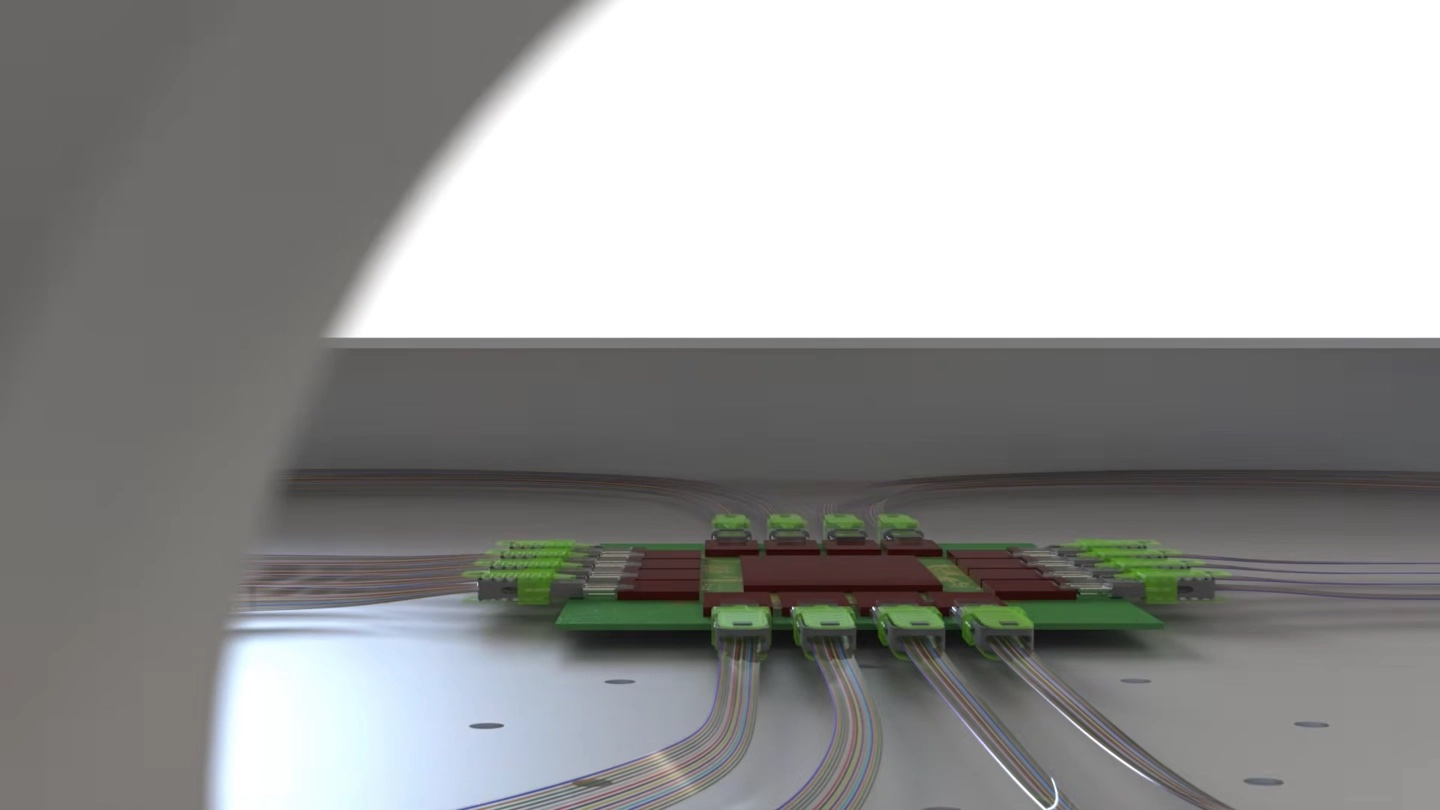
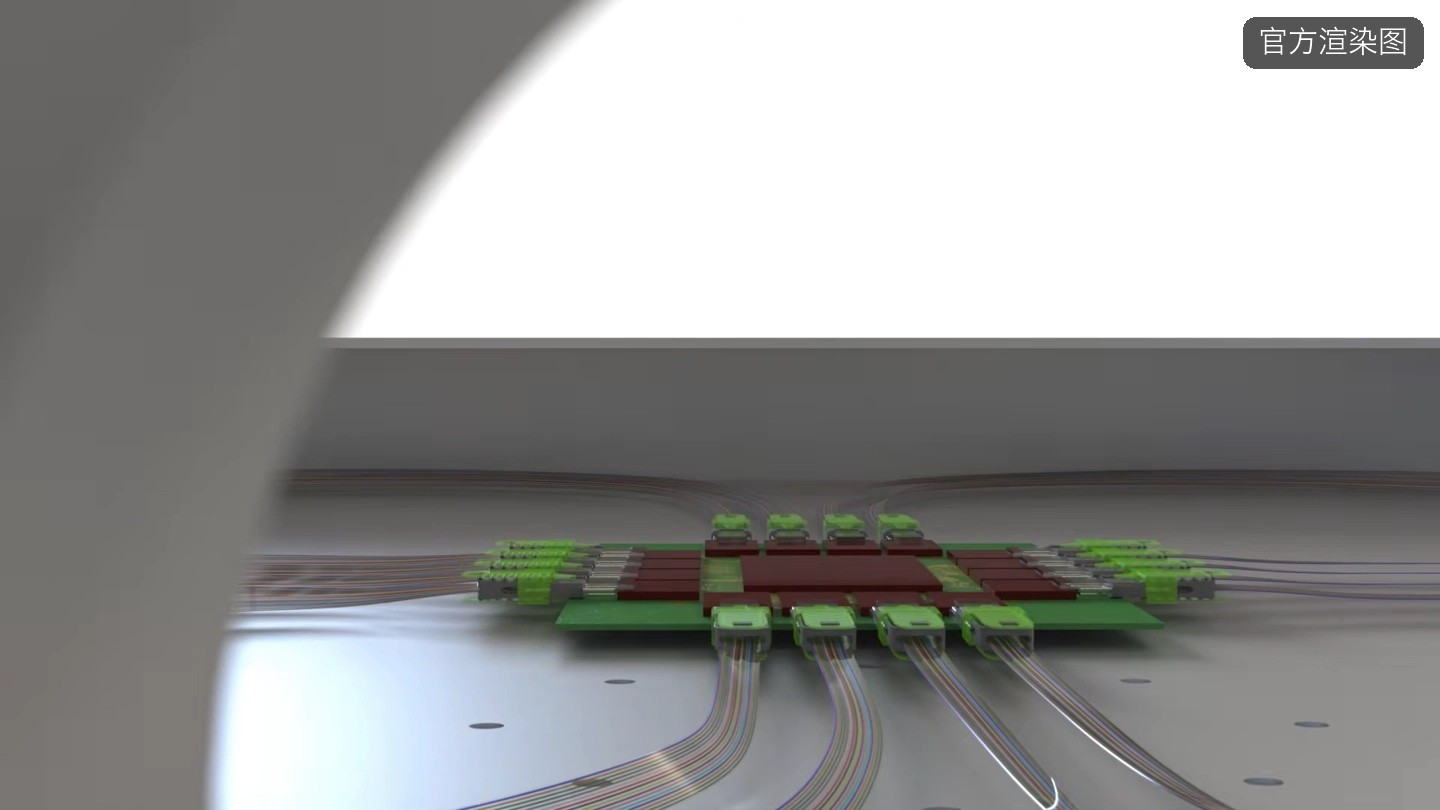
配图口径放宽（宫主 9-28）：允许官方渲染图/AI图/带水印图，须打右上角角标；5 张非实拍图打标（NODE-003/008/010），新增 tag_image.py 与登记册第五节角标登记

Changed region(s): [[0.8438, 0.0, 1.0, 0.0926]]

diff --git a/02 势宫/0201 产业研究所/配图登记册.md b/02 势宫/0201 产业研究所/配图登记册.md
@@ -94,23 +94,53 @@
 | NODE-007 InP | 3 | 晶圆 / 管芯 / 晶圆厂洁净室 | ✅ 齐备 |
 | NODE-008 DSP | 3 | 芯片封装 / 开发板 / 应用套件 | ✅ 齐备 |
 | NODE-009 玻璃基板（电链） | 3 | 产品+环境 / 结构 / 产线检验 | ✅ 齐备 |
-| NODE-010 玻璃基光互连（光链） | 3 | 产品（渲染）/ 工位（渲染）/ 被替代方实物 | ⚠ 见下 |
+| NODE-010 玻璃基光互连（光链） | 3 | 产品（官方渲染图·已打角标）/ 工位（官方渲染图·已打角标）/ 被替代方实物 | ✅ 齐备 |
 
 **合计 30 张**，全部已入 Node 正文《实物速览（配图）》节。
 
 ### 4.2 待补 / 存疑清单
 
-| Node | 缺口 | 说明 |
+> **口径变更（2026-09-28 宫主）**：真实实物照拿不到时，**允许**用官方渲染图 / AI 生成图 / 带水印的转引图 / 示意图，只须在**图片右上角打角标**并写明类型。故下列各项**不再是"缺口"，降为"有则更好"**，不阻塞 Node。
+
+| Node | 待补项 | 说明 |
 |---|---|---|
-| NODE-010 玻璃基光互连 | Glass Bridge **实物照片** | 图 1/2 均为康宁官方**渲染图**（corning.com 全站 403、官网手册 PDF 无法获取，全球公开渠道暂无实物照）。图注已明示"非实物"。待 2027Q4 验证产线小规模量产后补齐 |
-| NODE-010 玻璃基光互连 | IOX 波导**结构剖面图** | 未找到独立结构剖面图（百度百科两张配图经识别为 AI 生成视频封面，已弃用）。当前以图 1 渲染图的波导贴装示意覆盖 |
+| NODE-010 玻璃基光互连 | Glass Bridge **实物照片** | 图 1/2 为康宁官方**渲染图**（corning.com 全站 403、官网手册 PDF 无法获取，全球公开渠道暂无实物照），已打「官方渲染图」角标。有实物照时再替换 |
+| NODE-010 玻璃基光互连 | IOX 波导**结构剖面图** | 未找到独立剖面图（百度百科两张配图经识别为 AI 生成视频封面，已弃用）。当前以图 1 渲染图的波导贴装示意覆盖 |
 | NODE-005 oDSP | IMG-018 来源页 URL | ServeTheHome 站内多次检索无对应文章，`CDUL258` 全网无索引；器件身份（Marvell 1.6T PAM4 DSP 演示模块）确凿但**来源页未锁定**，图注已写"来源待补" |
-| NODE-007 InP | InP 单晶炉（LEC/VGF）实拍 | 未找到合规图（Wikimedia/百度系不可达；拓材科技图为带水印原料图，不符需求）。已用 Fremont 晶圆厂洁净室替代"工作环境"类 |
+| NODE-007 InP | InP 单晶炉（LEC/VGF）实拍 | 未找到合规图（Wikimedia/百度系不可达）。已用 Fremont 晶圆厂洁净室覆盖"工作环境"类；按新口径，也可改用水印图打角标顶替 |
 | 全局 | 备选未入库 | ① AXT 官网 InP 衬底晶圆盒照（深色晶圆，画质佳，来源明确）—— 可作 NODE-007 备选；② Seikoh-Giken FAU 实物照（仅 231px，过小，已弃用） |
 
 ---
 
-## 五、维护说明
+## 五、右上角角标登记（2026-09-28 起）
+
+**规则**：非实拍图必须在**图片右上角**打角标；**没角标 = 实拍照片**。角标由 `shaohao-node-images/scripts/tag_image.py` 直接烧进图片像素（而非只写在图注里），三端（Obsidian / GitHub / 网页）都能看到。
+
+| 角标 | 含义 | 当前张数 |
+|---|---|---|
+| 官方渲染图 | 厂商发布的 3D 渲染 / 概念图，非实拍 | 4 |
+| 原图带水印 | 转引他人带水印的图，**原水印保留不抹** | 1 |
+| AI 生成图 | AI 生成，只能占"结构示意"位 | 0 |
+| 示意图（非实拍） | 矢量插画 / 截面示意 / 拓扑图（内含右上角标注的技术图慎用） | 0（见说明） |
+
+**已打角标明细**：
+
+| IMG | Node | 文件名 | 角标 |
+|---|---|---|---|
+| IMG-028 | NODE-010 | `node-010-corning-glass-bridge.jpg` | 官方渲染图 |
+| IMG-029 | NODE-010 | `node-010-cpo-fiber-harness.jpg` | 官方渲染图 |
+| IMG-030 | NODE-010 | `node-010-fau-fiber-array.jpg` | 原图带水印 |
+| IMG-025 | NODE-008 | `node-008-ti-dsp-package.jpg` | 官方渲染图 |
+| IMG-012 | NODE-003 | `node-003-ascend-950-die.jpg` | 官方渲染图 |
+
+**说明**：另有 5 张「结构示意」图（HBM3 堆叠剖面、前驱体成膜位置、Apollo OCS 光路、CoWoS 剖视、Absolics 嵌入结构）**未打角标** —— 它们本身一眼可辨是示意图，且右上角常有图例/标注，打角标会遮挡内容。如需统一打，用 `--preset diagram` 重跑即可。
+
+**打标前置**：先备原图（`tag_image.py` 默认原地覆盖，重复打会叠角标）。备份目录 `Temp/img_orig_backup_YYYYMMDD/`，或从 git 取回：
+`git -C ~/Workspace/GitHub/shaohao-ruchang show HEAD:"02 势宫/0201 产业研究所/assets/<文件>" > <文件>`
+
+---
+
+## 六、维护说明
 
 - **编号**：IMG-XXX 全局连续，新增从本表最大号 +1；不修订历史行，更正用新行追加。
 - **增补流程**：采集 → 压缩入库 → md 插图与图注 → 本表加行 → `shaohao-ruchang-sync` 三处同步（`build.py` 会自动把 `assets/` 拷进发布目录）。

diff --git a/02 势宫/0201 产业研究所/NODE-010 玻璃基光互连 Glass Bridge.md b/02 势宫/0201 产业研究所/NODE-010 玻璃基光互连 Glass Bridge.md
@@ -20,7 +20,7 @@
 
 ![传统 FAU 光纤阵列单元实物](assets/node-010-fau-fiber-array.jpg)
 
-*图 3｜**被替代方本体**：传统 FAU（Fiber Array Unit，光纤阵列单元）实物——带状光纤被固定在石英/V 槽玻璃基座上，端面抛光后待与光芯片耦合。这就是本 Node 的替代对象，也是**A 股天孚通信、太辰光、仕佳光子等公司赖以吃饭的产品形态**。它的价值来自"把 N 根光纤按精确间距排好并对准"，而 Glass Bridge 用玻璃里的波导阵列把这件事变成了光刻能解决的活。来源：光通信百科（和弦产业研究中心）「FA 和 FAU」词条（Credit: 光通信百科 / 光通信小虎）。*
+*图 3｜**被替代方本体**：传统 FAU（Fiber Array Unit，光纤阵列单元）实物——带状光纤被固定在石英/V 槽玻璃基座上，端面抛光后待与光芯片耦合。这就是本 Node 的替代对象，也是**A 股天孚通信、太辰光、仕佳光子等公司赖以吃饭的产品形态**。它的价值来自"把 N 根光纤按精确间距排好并对准"，而 Glass Bridge 用玻璃里的波导阵列把这件事变成了光刻能解决的活。来源：光通信百科（和弦产业研究中心）「FA 和 FAU」词条（Credit: 光通信百科 / 光通信小虎）。**注意：此图为转引，原图带水印（角标已注明），水印保留未抹。***
 
 ---
 
@@ -362,3 +362,4 @@ flowchart LR
 | 2026-09-27 | 数据 | 市场唯一一次定价事件登记：2026-06-24 康宁发布当日 A 股 CPO 概念板块单日重挫超 6%，同期美股康宁上涨 | Step 13 / Alpha 映射链 | 确认 | EVD-206 |
 | 2026-09-27 | 技术 | 康宁 ECTC 2026 论文：银离子扩散特性玻璃配方，精度内建于材料而非后段对准——本 Node 技术内核 | Step 2 / Step 4 / 证据索引 | 强化 | EVD-203 |
 | 2026-09-27 | 关系 | REL-031 宫内结论对冲（NODE-003 盛合晶微 TSV 硅中介层 vs 玻璃中介层）**归属 NODE-009 电链**，本 Node 不涉及硅中介层替代——拆分后对冲关系不再横跨两 Node | 关系表说明 | 待观察 | EVD-174 |
+| 2026-09-28 | 关系 | 配图按宫主新口径打右上角角标：图 1（康宁 Glass Bridge）、图 2（CPO 光纤线束）标「官方渲染图」，图 3（传统 FAU 实物）标「原图带水印」并保留原水印；新不变式「有角标 = 非实拍，无角标 = 实拍」 | 《实物速览（配图）》、图 3 图注 | 无实质影响（图注口径） | — |

diff --git a/02 势宫/0201 产业研究所/NODE-003 华为超节点 Huawei SuperNode.md b/02 势宫/0201 产业研究所/NODE-003 华为超节点 Huawei SuperNode.md
@@ -480,3 +480,4 @@ flowchart LR
 | 2026-09-26 | 产品 | 华为发布业界首个 NPO 超节点 Atlas 960E：5500 个 Hi-ONE 替代 4.8 万颗 800G 光模块、4096 NPU、可用度 99.8%；SuperCluster 支持 51.2 万卡 | 第五节证据索引（产品与规格） | 强化 | EVD-184 |
 | 2026-09-26 | 技术 | 华为自研 NPO 交换机 XH9300-EN：互联功耗 1000W→600W、时延 -180ns、故障恢复天→小时；汪涛称 NPO 优于 CPO；OPEN NPO 首版规范 2026Q3 发布 | 第五节证据索引（交换与标准） | 强化 | EVD-185（EVD-164 等级已由 C 升为 B/C） |
 | 2026-09-26 | 产品 | 昇腾 950 超节点上市：1024 NPU + 1300 灵衢套片 + 4000 光模块，互联带宽 +2.1 倍、单柜省 6000 根线缆/50km 铜线 | 第五节证据索引（工程侧规格） | 强化 | EVD-186（跨 NODE-006） |
+| 2026-09-28 | 关系 | 配图按宫主新口径打右上角角标：图 3（Ascend 950 Die）标「官方渲染图」，与图 1/图 2 的真机实拍形成区分 | 《实物速览（配图）》 | 无实质影响（图注口径） | — |

diff --git a/02 势宫/0201 产业研究所/NODE-008 DSP 数字信号处理器.md b/02 势宫/0201 产业研究所/NODE-008 DSP 数字信号处理器.md
@@ -355,3 +355,4 @@ flowchart LR
 | 2026-09-25 | — | 近 3 日无实质命中：妙想 API 配额触顶（code 113）后降级 WebSearch 复核，仅见泛 DSP/存算一体产业综述，无触及本 Node 结论的新事实 | — | 无实质影响 | — |
 | 2026-09-26 | 公告 | 国芯科技：2026H1 汽车电子收入 1.02 亿 +108%、DSP 芯片出货 13.61 万颗、车规 DSP 已批量供货比亚迪/奇瑞/吉利等；合同负债 11.43 亿 | 第五节证据索引（软壁垒落地） | 强化 | EVD-193 |
 | 2026-09-26 | 技术 | 实时控制 DSP 国产替代进入 pin-to-pin 原位替换阶段（对标 TI C2000，配套一键导入 IDE），中科昊芯/毂梁微/芯弦/格见/方芯形成阵营 | 第五节证据索引（迁移成本） | 确认 | EVD-194 |
+| 2026-09-28 | 关系 | 配图按宫主新口径打右上角角标：图 1（TMS320F28379D LQFP-176 封装）标「官方渲染图」；该图原为产品本体位，角标明示非实拍以免误读为实物照 | 《实物速览（配图）》 | 无实质影响（图注口径） | — |
